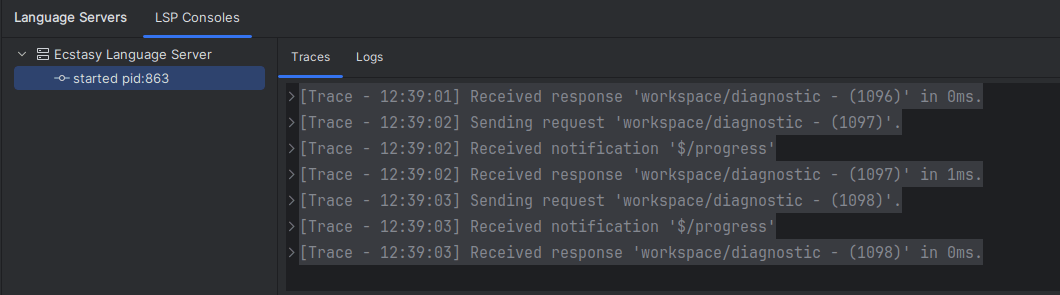
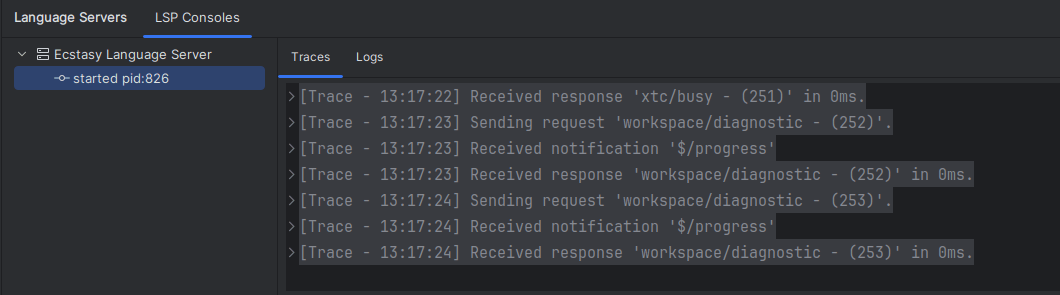
Fit IntelliJ's Language Service and Server Runtime pages to the Settings dialog, and show both in the user guide
The Language Service page laid its controls and notes out in a two-column grid as wide as its longest text, with
a header of fixed line breaks: in the Settings dialog its right column and help text were cut off, which also
kept it out of the user guide. On the Server Runtime and Logs page the memory policy's entries were whole
sentences, which made the box as wide as them, and notes under labeled rows started at the control's column and
ran past the dialog's edge.

- The Language Service page is laid out with the UI DSL, as the runtime page since the previous commit: each
  control on its row, its note under the row, the effective configuration below, filling the rest.
- The memory policy's entries are Default and Adaptive, with what each does in a note under the row.
- On both pages every note wraps to the width it has (MAX_LINE_LENGTH_WORD_WRAP), and a labeled row's note
  stands under the whole row. The maximum heap field fits its placeholder, "the JVM's own".
- The IntelliJ tour's "The language server" and "The server's runtime" steps name guide images, and guide.py
  made intellij-language-service.png and intellij-server-runtime.png from the run below; the guide's settings
  section shows both beside VS Code's settings.

Validated: the plugin compiles without warnings; its lsp package tests and PluginManifestTest, 136 tests;
verifyPluginInternalApis; spotlessCheck under CI=true. In the playbook container the IntelliJ tour's Settings
[…]

diff --git a/lang/intellij-plugin/src/main/kotlin/org/xtclang/idea/lsp/LanguageServiceConfigurable.kt b/lang/intellij-plugin/src/main/kotlin/org/xtclang/idea/lsp/LanguageServiceConfigurable.kt
@@ -7,16 +7,14 @@ import com.intellij.openapi.options.Configurable
 import com.intellij.openapi.options.ConfigurationException
 import com.intellij.openapi.project.Project
 import com.intellij.ui.components.JBCheckBox
-import com.intellij.ui.components.JBLabel
 import com.intellij.ui.components.JBScrollPane
+import com.intellij.ui.dsl.builder.Align
+import com.intellij.ui.dsl.builder.MAX_LINE_LENGTH_WORD_WRAP
+import com.intellij.ui.dsl.builder.panel
 import com.redhat.devtools.lsp4ij.LanguageServiceAccessor
-import java.awt.BorderLayout
-import java.awt.GridLayout
 import java.util.concurrent.atomic.AtomicLong
-import javax.swing.JButton
 import javax.swing.JComboBox
 import javax.swing.JComponent
-import javax.swing.JPanel
 import javax.swing.JTextArea
 
 /** Edits application defaults for new projects and projects that inherit language-service settings. */
@@ -59,47 +57,42 @@ open class LanguageServiceConfigurable(
     override fun createComponent(): JComponent {
         inherit.addItemListener { updateEnabled() }
         reset()
-        return JPanel(BorderLayout(0, 12)).apply {
-            add(
-                JPanel(GridLayout(0, 2, 8, 8)).apply {
-                    if (project != null) {
-                        add(inherit)
-                        add(JBLabel("Project overrides are stored with LSP4IJ."))
-                    }
-                    add(JBLabel("Language adapter (restarts automatically)"))
-                    add(adapter)
-                    add(JBLabel("Text synchronization (restarts automatically)"))
-                    add(synchronization)
-                    add(JBLabel("Save formatting owner (restarts automatically)"))
-                    add(saving)
-                    add(hints)
-                    add(JBLabel("Native IDE inlay controls still apply."))
-                    add(references)
-                    add(JBLabel("Applies immediately; Run lenses remain available."))
-                },
-                BorderLayout.NORTH,
+        return panel {
+            if (project != null) {
+                row { cell(inherit).comment("Project overrides are stored with LSP4IJ.", MAX_LINE_LENGTH_WORD_WRAP) }
+            }
+            row("Language adapter:") {
+                cell(adapter)
+            }.rowComment(
+                "Restarts the server automatically.",
+                MAX_LINE_LENGTH_WORD_WRAP,
             )
-            add(
-                JBLabel(
-                    "<html>Full is the default. Incremental sends changed text; it does not enable incremental compilation.<br>" +
-                        "The server formats on save while Tools → Actions on Save doesn't reformat Ecstasy files.<br>" +
-                        "Indentation and the compiler wrapping margin are configured under Editor → Code Style → Ecstasy.<br>" +
-                        "Compiler paths are on Ecstasy › Compiler. Trace controls remain in Language Servers; JVM and log limits are on Ecstasy › Server Runtime and Logs.</html>",
-                ),
-                BorderLayout.CENTER,
+            row("Text synchronization:") {
+                cell(synchronization)
+            }.rowComment(
+                "Restarts automatically. Full is the default. Incremental sends changed text; it does not enable " +
+                    "incremental compilation.",
+                MAX_LINE_LENGTH_WORD_WRAP,
             )
-            add(
-                JPanel(BorderLayout()).apply {
-                    add(JBScrollPane(report), BorderLayout.CENTER)
-                    add(
-                        JButton("Refresh effective configuration").apply {
-                            addActionListener { refreshReport() }
-                        },
-                        BorderLayout.SOUTH,
-                    )
-                },
-                BorderLayout.SOUTH,
+            row("Save formatting owner:") {
+                cell(saving)
+            }.rowComment(
+                "Restarts automatically. The server formats on save while Tools → Actions on Save doesn't reformat " +
+                    "Ecstasy files.",
+                MAX_LINE_LENGTH_WORD_WRAP,
             )
+            row { cell(hints).comment("Native IDE inlay controls still apply.", MAX_LINE_LENGTH_WORD_WRAP) }
+            row { cell(references).comment("Applies immediately; Run lenses remain available.", MAX_LINE_LENGTH_WORD_WRAP) }
+            row {
+                comment(
+                    "Indentation and the compiler wrapping margin are configured under Editor → Code Style → Ecstasy. " +
+                        "Compiler paths are on Ecstasy › Compiler. Trace controls remain in Language Servers; JVM and log " +
+                        "limits are on Ecstasy › Server Runtime and Logs.",
+                    MAX_LINE_LENGTH_WORD_WRAP,
+                )
+            }
+            row { cell(JBScrollPane(report)).align(Align.FILL) }.resizableRow()
+            row { button("Refresh effective configuration") { refreshReport() } }
         }
     }
 

diff --git a/lang/intellij-plugin/src/main/kotlin/org/xtclang/idea/lsp/ServerRuntimeConfigurable.kt b/lang/intellij-plugin/src/main/kotlin/org/xtclang/idea/lsp/ServerRuntimeConfigurable.kt
@@ -8,6 +8,7 @@ import com.intellij.ui.components.JBCheckBox
 import com.intellij.ui.components.JBScrollPane
 import com.intellij.ui.components.JBTextField
 import com.intellij.ui.dsl.builder.Align
+import com.intellij.ui.dsl.builder.MAX_LINE_LENGTH_WORD_WRAP
 import com.intellij.ui.dsl.builder.panel
 import javax.swing.JComponent
 import javax.swing.JSpinner
@@ -40,7 +41,7 @@ class ServerRuntimeConfigurable : Configurable {
         }
     private val policy = ComboBox(MemoryPolicy.entries.toTypedArray()).apply { name = "xtc.runtime.memoryPolicy" }
     private val maxHeap =
-        JBTextField(8).apply {
+        JBTextField(12).apply {
             name = "xtc.runtime.maxHeap"
             emptyText.text = "the JVM's own"
             toolTipText = "With the Default policy: the server's maximum heap, such as 4G. Empty: a quarter of this machine's memory."
@@ -51,7 +52,12 @@ class ServerRuntimeConfigurable : Configurable {
 
     override fun createComponent(): JComponent =
         panel {
-            row { comment("Machine-local settings; uses IntelliJ's bundled Java runtime. Apply saves them for the next server start.") }
+            row {
+                comment(
+                    "Machine-local settings; uses IntelliJ's bundled Java runtime. Apply saves them for the next server start.",
+                    MAX_LINE_LENGTH_WORD_WRAP,
+                )
+            }
             row {
                 button("Restart running Ecstasy servers with saved settings") {
                     ProjectManager
@@ -69,20 +75,32 @@ class ServerRuntimeConfigurable : Configurable {
                             "-XX:ActiveProcessorCount, or -XX:+UseG1GC/UseSerialGC/UseParallelGC/UseZGC. Sizes use K, M or G. " +
                             "An -Xmx or a collector here overrides the memory policy below. No shell quoting, agents, " +
                             "classpath or system-property overrides.",
+                        MAX_LINE_LENGTH_WORD_WRAP,
                     )
             }.resizableRow()
-            row("Memory policy:") { cell(policy) }
+            row("Memory policy:") {
+                cell(policy)
+            }.rowComment(
+                "Default: the maximum heap below, or the JVM's own, a quarter of this machine's memory. Adaptive: " +
+                    "starts small, grows as the work needs and gives memory back, using at most 3/4 of this machine's.",
+                MAX_LINE_LENGTH_WORD_WRAP,
+            )
             row("Maximum heap, with the Default policy:") { cell(maxHeap) }
             row("Log history (days):") { cell(history) }
             row("Each log file (MB):") { cell(fileSize) }
             row("Rolled archive cap per stream (MB):") { cell(totalSize) }
             row("Retired process sessions to keep:") { cell(sessions) }
-            row { cell(libraries).comment("Navigation in XDK sources, also in method bodies.") }
-            row { cell(replacement).comment("For working on the XDK's own libraries, as in the XVM repository.") }
+            row { cell(libraries).comment("Navigation in XDK sources, also in method bodies.", MAX_LINE_LENGTH_WORD_WRAP) }
+            row {
+                cell(
+                    replacement,
+                ).comment("For working on the XDK's own libraries, as in the XVM repository.", MAX_LINE_LENGTH_WORD_WRAP)
+            }
             row {
                 comment(
                     "Active processes are protected. Old sessions are pruned on server start. " +
                         "Tools → Export Ecstasy Server Logs saves bounded recent logs and status.",
+                    MAX_LINE_LENGTH_WORD_WRAP,
                 )
             }
         }.also { reset() }

diff --git a/lang/intellij-plugin/src/integrationTest/kotlin/org/xtclang/idea/playbook/TourScript.kt b/lang/intellij-plugin/src/integrationTest/kotlin/org/xtclang/idea/playbook/TourScript.kt
@@ -2592,6 +2592,7 @@ private fun Tour.settings() {
         "The language server",
         "Settings | Languages & Frameworks | Ecstasy: the language service's features can each be turned off, per project.",
         feature = "Settings | Ecstasy | Language Service",
+        guide = GuideImage("intellij-language-service", "900x700+510+118"),
         focus = "popup",
         until = { "Show Ecstasy inlay hints" in popupText() },
         check = {
@@ -2672,6 +2673,7 @@ private fun Tour.settings() {
         "The server's runtime",
         "The server's runtime: the Java it runs on, its memory, and its logs, for when something goes wrong.",
         feature = "Settings | Ecstasy | Server Runtime and Logs",
+        guide = GuideImage("intellij-server-runtime", "900x700+510+118"),
         focus = "popup",
         settle = 3.seconds,
         until = { "Log history (days)" in popupText() },

diff --git a/lang/intellij-plugin/src/main/kotlin/org/xtclang/idea/lsp/ServerRuntimeSettings.kt b/lang/intellij-plugin/src/main/kotlin/org/xtclang/idea/lsp/ServerRuntimeSettings.kt
@@ -12,8 +12,8 @@ import com.intellij.util.xmlb.annotations.OptionTag
 enum class MemoryPolicy(
     private val label: String,
 ) {
-    DEFAULT("Default: the maximum heap below, or the JVM's own, a quarter of this machine's memory"),
-    ADAPTIVE("Adaptive: starts small, grows as the work needs and gives memory back, using at most 3/4 of this machine's"),
+    DEFAULT("Default"),
+    ADAPTIVE("Adaptive"),
     ;
 
     override fun toString() = label

diff --git a/lang/doc/user-guide.md b/lang/doc/user-guide.md
@@ -693,6 +693,16 @@ build, and uses the XDK it comes with.
 The language adapter and the server's runtime settings restart the server, which reopens your
 unsaved files; the others apply at once.
 
+![IntelliJ Languages & Frameworks, Ecstasy, Language Service settings page](user-guide/intellij-language-service.png)
+*IntelliJ: **Settings | Languages & Frameworks | Ecstasy | Language Service**: the language adapter, text
+synchronization, who formats on save, inlay hints and reference counts, then the running server's effective
+configuration.*
+
+![IntelliJ Languages & Frameworks, Ecstasy, Server Runtime and Logs settings page with the memory policy](user-guide/intellij-server-runtime.png)
+*IntelliJ: **Settings | Languages & Frameworks | Ecstasy | Server Runtime and Logs**: the server's JVM options, its
+memory policy and maximum heap, and how long its logs are kept, with a button that restarts running servers with
+the saved settings.*
+
 ![VS Code Settings editor filtered to the Ecstasy extension's settings](user-guide/vscode-settings.png)
 *VS Code: **Ecstasy: Open Language Service Settings** shows the extension's settings, in four groups.*
 
